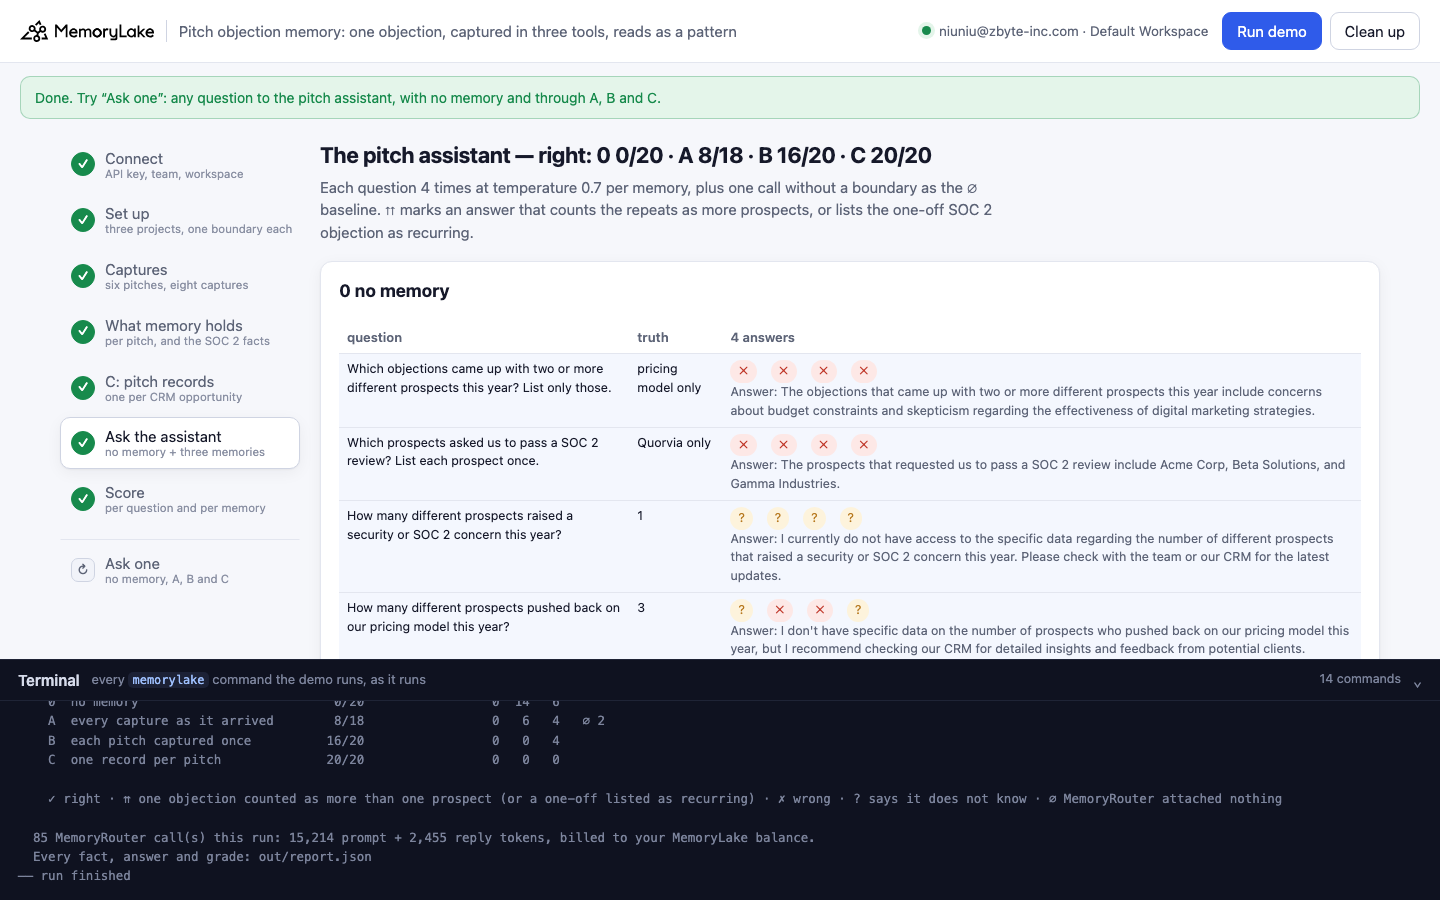
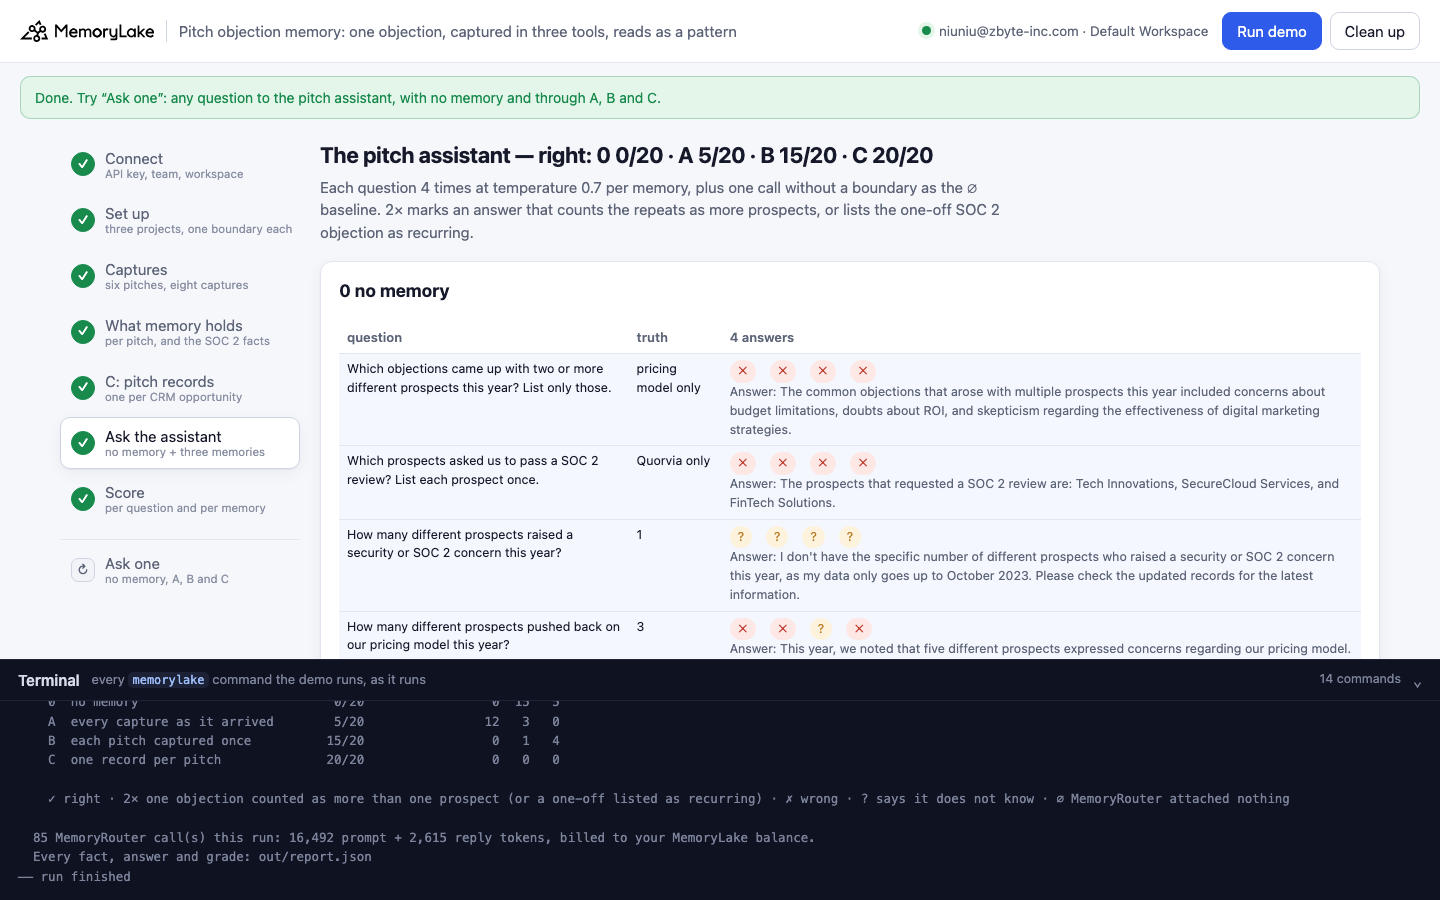
docs(pitch-objection-memory): videos on the v1 release; totals over 11 runs
Also: the grader reads 'no specific mention of the number' as not knowing (30 offline
cases), and the root table row moves after webhook-order-memory.

diff --git a/pitch-objection-memory/demo.py b/pitch-objection-memory/demo.py
@@ -497,7 +497,7 @@ TIME = r"\b(?:timeline|launch|too slow|6 weeks|six weeks|12-week|live in)\b"
 ALIAS = r"\b(?:payments prospect|payments platform prospect|Project Lantern|Lantern)\b"
 UNKNOWN = (r"\b(?:don't have|do not have|not have (?:the |any |specific )?(?:exact |specific )?(?:number|data|information)|"
            r"no record|unable to|cannot (?:determine|confirm|say)|can't (?:determine|say)|not specified|not available|"
-           r"additional data|need to check|no information)\b")
+           r"additional data|need to check|no information|no (?:specific )?mention|not mentioned)\b")
 ONLY = r"\b(?:only|just|single|solely|one prospect|one-off|once)\b"
 SAME = r"\b(?:same prospect|same pitch|same client|also (?:called|known)|referred to as|captured as|code ?name|i\.e\.|aka)\b"
 NUM = {"no": 0, "zero": 0, "one": 1, "a single": 1, "two": 2, "three": 3, "four": 4, "five": 5, "six": 6, "seven": 7,
@@ -599,6 +599,8 @@ CASES = [
     ("Q3", "Answer: Quorvia is the only prospect noted to have raised a security concern.", "ok"),
     ("Q3", "Answer: This year, there are two different prospects that raised a security or SOC 2 concern.", "dup"),
     ("Q3", "Answer: At least two different prospects, including the payments prospect and Quorvia.", "dup"),
+    ("Q3", "Answer: Based on the information available, there is no specific mention of the number of different "
+           "prospects that raised a security or SOC 2 concern this year.", "unknown"),
     ("Q3", "Answer: I don't have the exact number of different prospects that raised a security concern.", "unknown"),
     ("Q3", "Answer: This year, one prospect has raised a security concern (the payments prospect), and another has "
            "raised a SOC 2 concern (Quorvia).", "dup"),

diff --git a/pitch-objection-memory/README.md b/pitch-objection-memory/README.md
@@ -4,7 +4,8 @@ A runnable version of the MemoryLake use case
 [*New Business Pitch Memory for Agencies*](https://www.memorylake.ai/en/usecase/new-business-pitch-memory-for-agencies),
 built entirely on the [`memorylake` CLI](https://github.com/memorylake-ai/memorylake-cli) (v20261015 or later).
 
-**Watch it run:** recording in progress.
+**Watch it run:** [CLI, 4:55](https://github.com/memorylake-ai/memorylake-usecases/releases/download/pitch-objection-memory-v1/pitch-objection-memory-cli-demo.mp4) · [Web, 5:32](https://github.com/memorylake-ai/memorylake-usecases/releases/download/pitch-objection-memory-v1/pitch-objection-memory-web-demo.mp4)
+([release](https://github.com/memorylake-ai/memorylake-usecases/releases/tag/pitch-objection-memory-v1); GitHub serves them as downloads). The Web video is the second browser run: in the first, the 2× mark rendered like "π"; both runs are in the totals.
 
 **The problem.** Pitch memory is supposed to tell a new business team which objections *keep coming up*. But agency
 tools capture the same pitch more than once, and each tool names the prospect its own way:
@@ -43,17 +44,17 @@ Five questions — which objections came up with two or more prospects, which pr
 many raised a security concern, how many pushed back on pricing, who said the launch plan was too slow — four
 answers each per memory, on `gpt-4o-mini` at temperature 0.7.
 
-Over 9 runs (A and B differ **only** by the two repeat captures):
+Over 11 runs (A and B differ **only** by the two repeat captures):
 
-- **A counted the one objection as more than one prospect, or listed it as recurring, 67 times in 177 answers**
-  (2×); **B never did** (0 of 171). On the three SOC 2 questions A was right 25/108 times, B 63/103.
-- The 2× follows the facts: in the 8 runs where A's memory held the nickname facts, A answered 2× 67 times; in the
+- **A counted the one objection as more than one prospect, or listed it as recurring, 91 times in 217 answers**
+  (2×); **B never did** (0 of 211). On the three SOC 2 questions A was right 25/132 times, B 78/127.
+- The 2× follows the facts: in the 10 runs where A's memory held the nickname facts, A answered 2× 91 times; in the
   one run where extraction dropped both repeats (browser run 1), 0.
-- **C was right 171/177** — Q3 ("how many raised a security concern") 33/33, where B, with one fact, said it did not
-  know 34 times out of 35. C still listed SOC 2 among the recurring objections 5 times in 36 (Q1), though its record
+- **C was right 210/217** — Q3 ("how many raised a security concern") 41/41, where B, with one fact, said it did not
+  know 42 times out of 43. C still listed SOC 2 among the recurring objections 6 times in 44 (Q1), though its record
   says "one pitch, one prospect".
-- Extraction also drops things: the pricing objection of a pitch, or a whole pitch, was missing from A in 15 of 54
-  pitch-runs and from B in 13. That is why Q4 (three prospects pushed back on pricing) is A 13/36, B 8/36, C 36/36.
+- Extraction also drops things: the pricing objection of a pitch, or a whole pitch, was missing from A in 18 of 66
+  pitch-runs and from B in 14. That is why Q4 (three prospects pushed back on pricing) is A 14/44, B 12/44, C 44/44.
 
 Details in [Measured](#measured).
 
@@ -228,7 +229,7 @@ prompt tokens had nothing attached (∅, not graded).
 **2×** = the answer counts a nickname as another prospect ("Quorvia and the payments prospect", "at least two"), or
 lists the one-off SOC 2 objection among those that came up with two or more prospects. Naming only the nickname, or
 listing the one-off *timeline* objection as recurring, is ✗ — wrong, but not double counting. With no memory, an
-inflated number is invented, so it is ✗ too. The grader's rules and 29 offline cases are in `demo.py`
+inflated number is invented, so it is ✗ too. The grader's rules and 30 offline cases are in `demo.py`
 (`grade()`, `CASES`; `python3 demo.py selftest`).
 
 ## Measured
@@ -246,20 +247,23 @@ Per run, graded from the saved `out/report.json` with the current grader. Column
 | browser run 1 | 1 · Quorvia | 3/6 · 5/6 | 0/20 (✗ 14 · ? 6) | 8/18 (✗ 6 · ? 4 · ∅ 2) | 16/20 (? 4) | 20/20 |
 | second run | 3 · Quorvia, no name, the payments prospect | 6/6 · 5/6 | 0/20 (✗ 16 · ? 4) | 11/20 (2× 9) | 15/20 (✗ 1 · ? 4) | 18/20 (2× 1 · ✗ 1) |
 | PREFIX copy 6 | 2 · Quorvia, the payments prospect | 4/6 · 4/6 | 1/20 (✗ 14 · ? 5) | 9/19 (2× 2 · ✗ 6 · ? 2 · ∅ 1) | 12/20 (✗ 4 · ? 4) | 18/20 (2× 2) |
-| **total (9 runs)** | alias facts in 8/9 runs | 39/54 · 41/54 | **4/180 (✗ 137 · ? 39)** | **58/177 (2× 67 · ✗ 36 · ? 16 · ∅ 3)** | **99/171 (✗ 37 · ? 35 · ∅ 9)** | **171/177 (2× 5 · ✗ 1 · ∅ 3)** |
+| CLI recording | 2 · Quorvia, the payments prospect | 4/6 · 5/6 | 2/20 (✗ 13 · ? 5) | 4/20 (2× 12 · ✗ 4) | 12/20 (✗ 4 · ? 4) | 19/20 (2× 1) |
+| browser run 2 (Web recording) | 3 · Project Lantern, Quorvia, the payments prospect | 5/6 · 6/6 | 0/20 (✗ 15 · ? 5) | 5/20 (2× 12 · ✗ 3) | 15/20 (✗ 1 · ? 4) | 20/20 |
+| **total (11 runs)** | alias facts in 10/11 runs | 48/66 · 52/66 | **6/220 (✗ 165 · ? 49)** | **67/217 (2× 91 · ✗ 43 · ? 16 · ∅ 3)** | **126/211 (✗ 42 · ? 43 · ∅ 9)** | **210/217 (2× 6 · ✗ 1 · ∅ 3)** |
 
 Per question, all runs:
 
 | question (truth) | 0  no memory | A  every capture as it arrived | B  each pitch captured once | C  one record per pitch |
 |---|---|---|---|---|
-| Q1 Which objections came up with two or more different prospects this year? List only those. (pricing model only) | 1/36 (✗ 35) | 12/36 (2× 24) | 27/32 (✗ 5 · ∅ 4) | 30/36 (2× 5 · ✗ 1) |
-| Q2 Which prospects asked us to pass a SOC 2 review? List each prospect once. (Quorvia only) | 0/36 (✗ 36) | 11/36 (2× 21 · ✗ 4) | 36/36 | 36/36 |
-| Q3 How many different prospects raised a security or SOC 2 concern this year? (1) | 0/36 (✗ 4 · ? 32) | 2/36 (2× 22 · ? 12) | 0/35 (✗ 1 · ? 34 · ∅ 1) | 33/33 (∅ 3) |
-| Q4 How many different prospects pushed back on our pricing model this year? (3) | 3/36 (✗ 26 · ? 7) | 13/36 (✗ 20 · ? 3) | 8/36 (✗ 28) | 36/36 |
-| Q5 Which prospect said our launch plan was too slow? (Velloway) | 0/36 (✗ 36) | 20/33 (✗ 12 · ? 1 · ∅ 3) | 28/32 (✗ 3 · ? 1 · ∅ 4) | 36/36 |
+| Q1 Which objections came up with two or more different prospects this year? List only those. (pricing model only) | 1/44 (✗ 43) | 12/44 (2× 32) | 34/40 (✗ 6 · ∅ 4) | 37/44 (2× 6 · ✗ 1) |
+| Q2 Which prospects asked us to pass a SOC 2 review? List each prospect once. (Quorvia only) | 0/44 (✗ 44) | 11/44 (2× 29 · ✗ 4) | 44/44 | 44/44 |
+| Q3 How many different prospects raised a security or SOC 2 concern this year? (1) | 0/44 (✗ 4 · ? 40) | 2/44 (2× 30 · ? 12) | 0/43 (✗ 1 · ? 42 · ∅ 1) | 41/41 (∅ 3) |
+| Q4 How many different prospects pushed back on our pricing model this year? (3) | 5/44 (✗ 30 · ? 9) | 14/44 (✗ 27 · ? 3) | 12/44 (✗ 32) | 44/44 |
+| Q5 Which prospect said our launch plan was too slow? (Velloway) | 0/44 (✗ 44) | 28/41 (✗ 12 · ? 1 · ∅ 3) | 36/40 (✗ 3 · ? 1 · ∅ 4) | 44/44 |
 
-The PREFIX copies are the same demo run side by side under another prefix (`mlu-pom1-` … `mlu-pom6-`). The first run
-was graded with an earlier grader and re-graded here.
+The PREFIX copies are the same demo run side by side under another prefix (`mlu-pom1-` … `mlu-pom6-`). Every run
+is re-graded here with the final grader (it changed four times during the build; each change came with an offline
+case). Browser run 1 is the one where extraction dropped both repeat captures: one SOC 2 fact, named Quorvia, and no 2×.
 
 ## What else we measured
 
@@ -281,9 +285,9 @@ Probes before the demo (the same six pitches, 2026-10-18):
 - **Deduplicate on the way in, by a link, not by a name.** Every capture in an agency stack is attached to something
   with an id — the CRM opportunity, the calendar event, the deal card a Slack thread hangs off. Resolve the capture
   to it, and write **one record per pitch** that lists where it was captured (`fact add`). That took the SOC 2
-  questions from 25/108 (A) to 99/105 (C).
+  questions from 25/132 (A) to 122/129 (C).
 - **Do not let the model count raw captures.** Even one clean fact per pitch (B) left "how many raised X" at "I don't
-  know" 34 times in 35; one record per pitch with the objection in a fixed place answered it 33/33. For anything
+  know" 42 times in 43; one record per pitch with the objection in a fixed place answered it 41/41. For anything
   that matters, count in code with `fact list --query` and hand the model the number.
 - **Ask lists, not yes/no.** "Did more than one prospect …?" gets "Yes" from the model on its own — with no memory at
   all. Ask "which prospects", and check the names.

diff --git a/README.md b/README.md
@@ -122,8 +122,8 @@ that memory can hold once it is more than coding sessions.
 | [rule-placement-memory](rule-placement-memory/) | Operations (SaaS product feedback) | One rule, word for word, in three places: a support assistant over four product-feedback triage meetings, eight conditional promises, three of them never mentioned again. The rule ("no record that it happened is not a record that it did not; say the outcome is not recorded") in the system prompt, as one memory fact, or as an app-written condition check per decision. On the lapsed $49 price question the prompt rule still produced "finance did not sign off" — an outcome nobody recorded — and the rule as one fact did too; the per-decision check never did, and no arm lost answers whose outcome memory holds. Branches of one extraction (`fact list` → `fact add`), `router chat --boundary`, a claim-checking grader, plus `memory` / `ask` and a local web UI | ~5 min | [CLI 6:31](https://github.com/memorylake-ai/memorylake-usecases/releases/download/rule-placement-memory-v1/rule-placement-memory-cli-demo.mp4) · [Web 7:26](https://github.com/memorylake-ai/memorylake-usecases/releases/download/rule-placement-memory-v1/rule-placement-memory-web-demo.mp4) |
 | [bare-reading-memory](bare-reading-memory/) | Engineering (AI agent release evals) | Six release gates set in one meeting, the eval results read out in the next: "Recall at 10 for the new reranker came in at 0.81." Extraction keeps the gates and, in most runs, none of the bare readings, so the release assistant has the rule without the result: "Unknown", or a passed gate answered as missed. The same readings said with their verdict keep the decision (sometimes without the number); readings written by the app straight from the eval harness answer every ship and figure question. Two GROUP meetings per copy, a branch of one extraction (`fact list` → `fact add`) plus harness facts, `router chat --boundary`, a per-run census of gates / readings / decisions, plus `memory` / `ask` and a local web UI | ~4 min | [CLI 6:30](https://github.com/memorylake-ai/memorylake-usecases/releases/download/bare-reading-memory-v1/bare-reading-memory-cli-demo.mp4) · [Web 6:54](https://github.com/memorylake-ai/memorylake-usecases/releases/download/bare-reading-memory-v1/bare-reading-memory-web-demo.mp4) |
 | [wrap-up-call-memory](wrap-up-call-memory/) | Operations, HR & teams (agency case studies) | An agency's six client wrap-up calls, four figures each, all said the same way: "Cost per lead came in at 18.40 dollars." Now and then a whole call leaves nothing in memory (cook finished, transcript there, no fact), and many kept figures come back without the client, so the case-study assistant says "Unknown" or gives another client's figure. The app audits each call against its receipt (`conv fact-actions`) and pins the missing or unnamed lines word for word, with client, campaign, date and speaker. Six GROUP calls, a per-call receipt audit, a branch of the extraction (`fact list` → `fact add`) plus the pinned lines, `router chat --boundary`, plus `memory` / `ask` and a local web UI | ~4 min | [CLI 6:31](https://github.com/memorylake-ai/memorylake-usecases/releases/download/wrap-up-call-memory-v1/wrap-up-call-memory-cli-demo.mp4) · [Web 6:44](https://github.com/memorylake-ai/memorylake-usecases/releases/download/wrap-up-call-memory-v1/wrap-up-call-memory-web-demo.mp4) |
-| [pitch-objection-memory](pitch-objection-memory/) | Marketing (agency new business) | One pitch objection is captured three times — CRM debrief ("Quorvia"), meeting notes ("Project Lantern"), Slack recap ("the payments prospect") — and each capture becomes its own fact, so the pitch assistant counts nicknames as prospects ("Quorvia and the payments prospect") and a one-off objection reads as recurring. Three memories through MemoryRouter: A every capture · B each pitch captured once (the control) · C one record per pitch, joined by the capture's CRM link. Over 9 runs: counted as more than one prospect A 67/177 · B 0/171; right A 58/177 · B 99/171 · C 171/177 | ~4 min | recording |
 | [webhook-order-memory](webhook-order-memory/) | Engineering (webhook-triggered agents) | Payment webhooks arrive at least once and out of order: after an outage, eight customers' older events are retried 27 hours after the newer ones. Written the usual way, stamped with the time they arrived, the late retry becomes the newest fact ("seat count is set to 40 seats (as of 2026-10-17, previously 25 seats …)") and the billing assistant answers with it. Three memories through MemoryRouter: A stamped on arrival · B stamped with the event's `created` · C B plus the app's own state facts (applied by event time) and history facts. Over 12 runs, current-value questions on the late-retry customers: A 41/288, B 233/288, C 286/288; in-order customers 69/72 · 68/72 · 72/72; the history question A 26/36 · B 22/36 · C 14/36 | ~6 min | [CLI 7:14](https://github.com/memorylake-ai/memorylake-usecases/releases/download/webhook-order-memory-v1/webhook-order-memory-cli-demo.mp4) · [Web 8:32](https://github.com/memorylake-ai/memorylake-usecases/releases/download/webhook-order-memory-v1/webhook-order-memory-web-demo.mp4) |
+| [pitch-objection-memory](pitch-objection-memory/) | Marketing (agency new business) | One pitch objection is captured three times — CRM debrief ("Quorvia"), meeting notes ("Project Lantern"), Slack recap ("the payments prospect") — and each capture becomes its own fact, so the pitch assistant counts nicknames as prospects ("Quorvia and the payments prospect") and a one-off objection reads as recurring. Three memories through MemoryRouter: A every capture · B each pitch captured once (the control) · C one record per pitch, joined by the capture's CRM link. Over 11 runs: counted as more than one prospect A 91/217 · B 0/211; right A 67/217 · B 126/211 · C 210/217 | ~4 min | [CLI 4:55](https://github.com/memorylake-ai/memorylake-usecases/releases/download/pitch-objection-memory-v1/pitch-objection-memory-cli-demo.mp4) · [Web 5:32](https://github.com/memorylake-ai/memorylake-usecases/releases/download/pitch-objection-memory-v1/pitch-objection-memory-web-demo.mp4) |
 
 The videos are real, unedited recordings; every asset lives on the [releases page](https://github.com/memorylake-ai/memorylake-usecases/releases).
 
